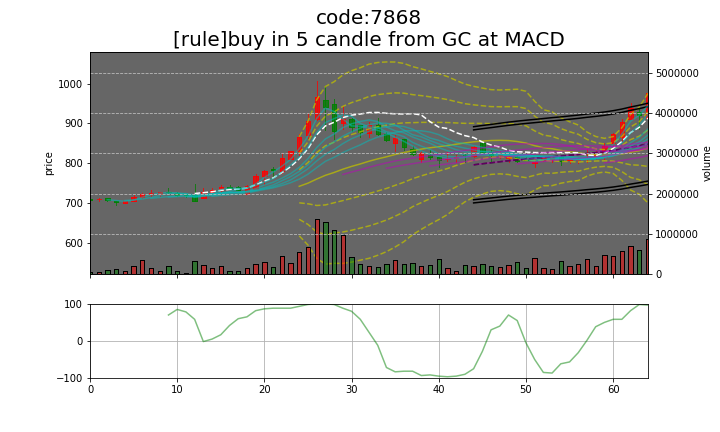
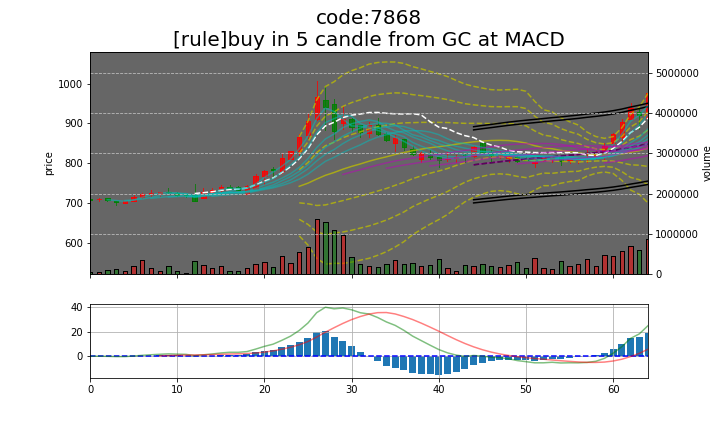
updated

Changed region(s): [[0.0917, 0.6921, 0.9167, 0.9028], [0.2139, 0.6921, 0.275, 0.7523], [0.0917, 0.6921, 0.1222, 0.7222]]

diff --git a/python/Spyder/stock_share/stock_share.py b/python/Spyder/stock_share/stock_share.py
@@ -26,7 +26,7 @@ class StockShare:
     ルール４「28日間の終値最良日で買う」
     end_date : yyyy-mm-dd形式で記述する
     """
-    def __init__(self, code, end_date = '2019-01-01', term = 100):
+    def __init__(self, code, end_date = '2019-01-01', term = 200):
         self.code = code
         self.end_date = end_date        
         year, month, day = end_date.split('-')
@@ -74,14 +74,15 @@ class StockShare:
         # 動作が重くならないようにクリアする
         plt.clf()
         #fig = plt.figure(figsize=(10, 6))
-        fig, (ax, ax2) = plt.subplots(2,1, gridspec_kw = {'height_ratios':[3, 1]}, figsize=(10, 6))
+        fig, (ax, ax2) = plt.subplots(2,1, gridspec_kw = {'height_ratios':[3, 1]}, figsize=(8, 8))
         #ax = fig.add_subplot(111)
         ax.set_title('code:' + str(self.code) + "\n[rule]buy in 5 candle from GC at MACD", loc='center', fontsize=20)
         ax.set_xlabel('day')
         ax.set_ylabel('price')
         ax.autoscale_view()
-        ax.patch.set_facecolor('k')  # 背景色
-        ax.patch.set_alpha(0.6)  # 透明度
+        ax.grid(True)
+        #ax.patch.set_facecolor('k')  # 背景色
+        #ax.patch.set_alpha(0.6)  # 透明度
  
         finance.candlestick2_ochl(ax, opens=self.ohcl["open"],\
                                       highs=self.ohcl["high"],\
@@ -90,19 +91,8 @@ class StockShare:
                                       width=0.5, colorup='r',\
                                       colordown='g', alpha=0.75) 
                  
-        # 一目均衡雲をプロットする
-        """
-        self.__calc_leading_span()
-        x_data = [x for x in range(26, 26 + len(self._span1))]
-        plt.plot(x_data, self._span1, color="r",alpha=0.5)
-        plt.plot(x_data, self._span2, color="b",alpha=0.5)
-        plt.fill_between(x_data, self._span1, self._span2, 
-                         where=self._span1>self._span2, 
-                         facecolor='r',alpha=0.25)
-        plt.fill_between(x_data, self._span1, self._span2,
-                         where=self._span1<self._span2, 
-                         facecolor='b', alpha=0.25)
-        """
+       
+        self.__plt_ichimoku_cloud(ax)
         self.__plt_bolinger_band(ax)
         self.__plt_envelope(ax)
         self.__plt_upper_support_line(ax)
@@ -112,7 +102,10 @@ class StockShare:
         #self.__plt_RCI(ax2)
         self.__plt_MACD(ax2)
         
-        #plt.xlim([0, 105])
+        #plt.xlim([30,65])
+        ax.set_xlim(80, 135)
+        ax2.set_xlim(80, 135)
+        
         
         plt.grid(True, linestyle='--', color='0.75')
               
@@ -190,6 +183,22 @@ class StockShare:
                 self.ohcl["volume"].append(_target.volume)
                 self.ohcl["close"].append(_current_price)
                 
+    
+    def __plt_ichimoku_cloud(self, ax):
+        # 一目均衡雲をプロットする
+        
+        self.__calc_leading_span()
+        x_data = [x for x in range(26, 26 + len(self._span1))]
+        ax.plot(x_data, self._span1, color="r",alpha=0.5)
+        ax.plot(x_data, self._span2, color="b",alpha=0.5)
+        ax.fill_between(x_data, self._span1, self._span2, 
+                         where=self._span1>self._span2, 
+                         facecolor='r',alpha=0.25)
+        ax.fill_between(x_data, self._span1, self._span2,
+                         where=self._span1<self._span2, 
+                         facecolor='b', alpha=0.25)
+           
+                
         
     def __plt_bolinger_band(self, ax):
         _series = pd.Series(self.ohcl["close"])
@@ -262,8 +271,19 @@ class StockShare:
         RS = up_sma_14 / down_sma_14
         RSI = 100.0 - (100.0 / (1.0 + RS))
         RSI.plot(ax=ax, color="c", alpha=0.5)
-        ax.set(ylim = (0,100))
+        #ax.set(ylim = (0,100))
         ax.grid(True)
+        
+        _series = pd.Series(RSI)
+        # 移動平均線
+        base = _series.rolling(window = 20).mean()
+        base.plot(ax=ax, color="r", alpha=0.75)
+        # シグマ
+        _sigma = _series.rolling(window = 20).std(ddof = 0)
+        _SIGMA_RATES = [3, 2, -2, -3]
+        for _rate in _SIGMA_RATES:
+            sigma_line  = base + _sigma * _rate
+            sigma_line.plot(ax=ax, ls="--", color="r",alpha=0.75)
         
     def __plt_MACD(self, ax):
         ewm_short = pd.Series(self.ohcl["close"]).ewm(span=12).mean()
